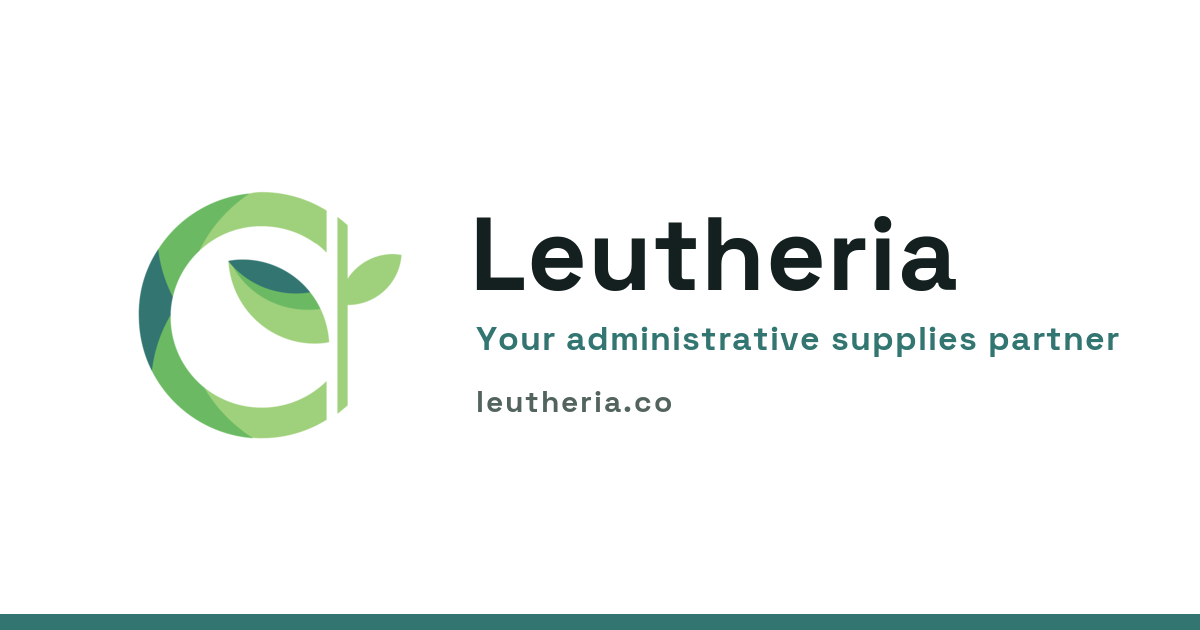
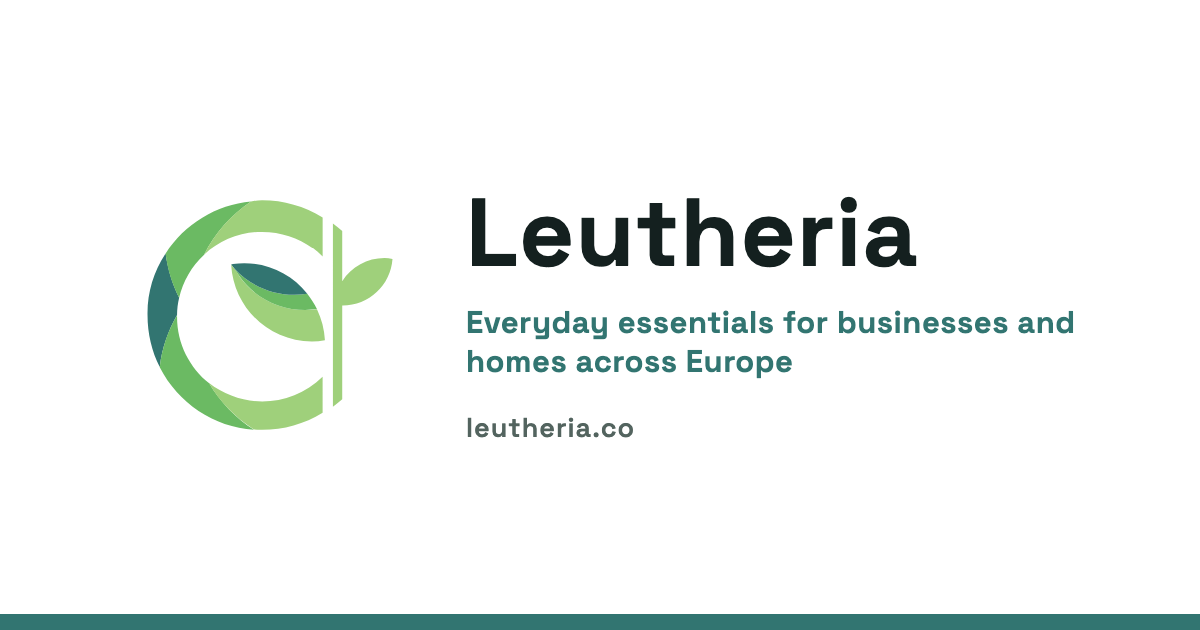
feat: present Leutheria as a European e-commerce company
Leutheria sells online to businesses and households across Europe, beyond
office supplies. The copy now speaks in themes (retail & point of sale,
kitchen & catering, office & business), never in products or marketplaces.

- Home: new hero, offer and approach copy; the closing call to action
  addresses manufacturers and opens a mail to sourcing@leutheria.co
- Contact: the introduction points manufacturers to sourcing@leutheria.co
- Legal notice: sales happen on marketplaces under their terms; business
  customers buying directly get the terms of sale with each quote
- Footer and JSON-LD: link the LinkedIn page
- og-image, README and CLAUDE.md follow the new positioning

Changed region(s): [[0.37, 0.3016, 0.925, 0.6937], [0.0925, 0.3016, 0.3392, 0.6937]]

diff --git a/src/app/[locale]/page.tsx b/src/app/[locale]/page.tsx
@@ -87,7 +87,7 @@ function Hero() {
 
 function Offer() {
     const t = useTranslations('Home.offer')
-    const items = ['supplies', 'quality', 'quote'] as const
+    const items = ['retail', 'kitchen', 'office'] as const
 
     return (
         <section className="py-24">
@@ -117,7 +117,7 @@ function Offer() {
 
 function Approach() {
     const t = useTranslations('Home.approach')
-    const items = ['direct', 'standard', 'french'] as const
+    const items = ['direct', 'standard', 'europe'] as const
 
     return (
         <section id="why" className="scroll-mt-20 bg-surface-invert py-24 text-foreground-invert">
@@ -178,9 +178,9 @@ function CallToAction() {
                         {t('title')}
                     </h2>
                     <p className="mx-auto mt-4 max-w-xl text-base leading-relaxed text-muted">{t('body')}</p>
-                    <Link href="/contact" className={`${buttonStyles.primary} mt-8`}>
+                    <a href={`mailto:${company.sourcingEmail}`} className={`${buttonStyles.primary} mt-8`}>
                         {t('button')}
-                    </Link>
+                    </a>
                 </div>
             </Container>
         </section>

diff --git a/src/app/[locale]/contact/page.tsx b/src/app/[locale]/contact/page.tsx
@@ -42,7 +42,19 @@ function ContactIntro() {
     return (
         <div className="max-w-2xl">
             <h1 className="font-display text-4xl font-bold tracking-tight text-foreground sm:text-5xl">{t('title')}</h1>
-            <p className="mt-5 text-lg leading-relaxed text-muted">{t('lead')}</p>
+            <p className="mt-5 text-lg leading-relaxed text-muted">
+                {t.rich('lead', {
+                    sourcingEmail: company.sourcingEmail,
+                    mail: (chunks) => (
+                        <a
+                            href={`mailto:${company.sourcingEmail}`}
+                            className="text-foreground underline-offset-4 hover:text-accent hover:underline"
+                        >
+                            {chunks}
+                        </a>
+                    ),
+                })}
+            </p>
         </div>
     )
 }

diff --git a/src/config/company.ts b/src/config/company.ts
@@ -32,8 +32,11 @@ export const company = {
         country: 'France',
     },
     email: 'guillaume@leutheria.co',
+    /** Where manufacturers send their proposals (home call to action, contact page). */
+    sourcingEmail: 'sourcing@leutheria.co',
     publicationDirector: 'Guillaume Sainthillier',
     facebookUrl: 'https://www.facebook.com/leutheriaFrance/',
+    linkedinUrl: 'https://www.linkedin.com/company/leutheria-fr/',
     /** Required in French "mentions légales": identity of the hosting provider. */
     host: {
         name: 'Vercel Inc.',

diff --git a/src/components/site-footer.tsx b/src/components/site-footer.tsx
@@ -50,6 +50,9 @@ export function SiteFooter() {
                         <a href={company.facebookUrl} target="_blank" rel="noreferrer noopener" className={linkClass}>
                             {t('followLabel')}
                         </a>
+                        <a href={company.linkedinUrl} target="_blank" rel="noreferrer noopener" className={linkClass}>
+                            {t('linkedinLabel')}
+                        </a>
                     </nav>
                 </div>
 

diff --git a/src/app/[locale]/legal-mentions/page.tsx b/src/app/[locale]/legal-mentions/page.tsx
@@ -8,7 +8,7 @@ import type { Locale } from '@/i18n/routing'
 import { buildAlternates } from '@/lib/metadata'
 
 /** Bump this whenever the wording below changes. */
-const LEGAL_UPDATED_ON = new Date('2026-10-23T00:00:00Z')
+const LEGAL_UPDATED_ON = new Date('2026-10-27T00:00:00Z')
 
 type PageProps = { params: Promise<{ locale: Locale }> }
 

diff --git a/src/lib/structured-data.ts b/src/lib/structured-data.ts
@@ -24,7 +24,7 @@ export function organizationJsonLd(description: string) {
             addressLocality: company.address.city,
             addressCountry: 'FR',
         },
-        sameAs: [company.facebookUrl],
+        sameAs: [company.facebookUrl, company.linkedinUrl],
     }
 }
 

diff --git a/CLAUDE.md b/CLAUDE.md
@@ -5,7 +5,10 @@ Guidance for Claude Code when working in this repository.
 ## What this is
 
 The corporate website of **Leutheria** (SARL, RCS Paris, SIREN 891978819) — a French
-supplier of office and administrative materials. Next.js 16 App Router, TypeScript,
+e-commerce company selling everyday essentials to businesses and households across Europe.
+The copy speaks in themes (retail & point of sale, kitchen & catering, office & business):
+never name individual products or the marketplaces they sell on. Manufacturers are pointed
+to `company.sourcingEmail`. Next.js 16 App Router, TypeScript,
 Tailwind v4, bilingual EN/FR via next-intl, deployed on Vercel. It replaced a WordPress
 (Roots Bedrock) install.
 

diff --git a/README.md b/README.md
@@ -1,7 +1,7 @@
 # leutheria.co
 
-Corporate website for **Leutheria** — a French supplier of office and administrative
-materials (SARL, RCS Paris, APE 47.91A).
+Corporate website for **Leutheria** — a French e-commerce company selling everyday
+essentials to businesses and households across Europe (SARL, RCS Paris, APE 47.91A).
 
 Bilingual (English / French) marketing site with a homepage, a contact form and three
 legal pages (legal notice, privacy policy, cookies). It replaces the previous WordPress (Roots Bedrock) installation.
